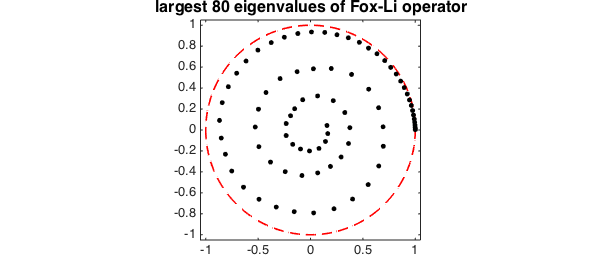
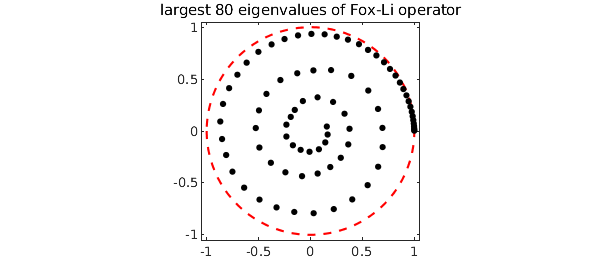
updating FoxLi

diff --git a/examples/integro/img/FoxLi.html b/examples/integro/img/FoxLi.html
@@ -19,13 +19,13 @@ To create the operator in Chebfun, we define the kernel and use the `fred` funct
 K = @(x,s) exp(-1i*F*(x-s).^2 );               % kernel
 L = sqrt(1i*F/pi) * chebop(@(u) fred(K,u));    % Fredholm integral operator</pre>Computing the $80$ eigenvalues of largest complex magnitude requires just a call to `eigs` with the `'lm'` option:
 
-<pre class="mcode-input">tic, lam = eigs(L,80,'lm'); toc</pre><pre class="mcode-output">Elapsed time is 13.501380 seconds.
-</pre>Finally, a beautiful pattern emerges when we plot the results:
+<pre class="mcode-input">tic, lam = eigs(L,80,'lm'); toc</pre><pre class="mcode-output">Elapsed time is 12.891044 seconds.
+</pre>A beautiful pattern emerges when we plot the results:
 
 <pre class="mcode-input">x = chebfun('x');
-clf, plot(exp(1i*pi*x),'--r','linewidth',1.6)
+clf, plot(exp(1i*pi*x),'--r')
 hold on, plot(lam,'k.','markersize',14)
-title('largest 80 eigenvalues of Fox-Li operator','fontsize',16)
+title('largest 80 eigenvalues of Fox-Li operator')
 axis equal, axis(1.05*[-1 1 -1 1]), hold off</pre><img src="img/FoxLi_01.png" class="figure" alt="">
 
 For a remarkable analysis of such patterns, see [1].

diff --git a/examples/integro/FoxLi.html b/examples/integro/FoxLi.html
@@ -73,14 +73,14 @@ L = sqrt(1i*F/pi) * chebop(@(u) fred(K,u));    % Fredholm integral operator</pre
 <p>Computing the $80$ eigenvalues of largest complex magnitude requires just a call to <code>eigs</code> with the <code>'lm'</code> option:</p>
 <pre class="mcode-input">tic, lam = eigs(L,80,'lm'); toc</pre>
 
-<pre class="mcode-output">Elapsed time is 13.501380 seconds.
+<pre class="mcode-output">Elapsed time is 12.891044 seconds.
 </pre>
 
-<p>Finally, a beautiful pattern emerges when we plot the results:</p>
+<p>A beautiful pattern emerges when we plot the results:</p>
 <pre class="mcode-input">x = chebfun('x');
-clf, plot(exp(1i*pi*x),'--r','linewidth',1.6)
+clf, plot(exp(1i*pi*x),'--r')
 hold on, plot(lam,'k.','markersize',14)
-title('largest 80 eigenvalues of Fox-Li operator','fontsize',16)
+title('largest 80 eigenvalues of Fox-Li operator')
 axis equal, axis(1.05*[-1 1 -1 1]), hold off</pre>
 
 <p><img src="img/FoxLi_01.png" class="figure" alt=""></p>

diff --git a/examples/integro/index.html b/examples/integro/index.html
@@ -61,7 +61,7 @@
 <div class="row main noleftpadding"><div class="col-sm-4 noleftpadding">
     <ul class='sidenav'>
         <li><a href="/examples/applics/index.html">Applications<span>6</span></a></li>
-        <li><a href="/examples/approx/index.html">Approximation (1D)<span>43</span></a></li>
+        <li><a href="/examples/approx/index.html">Approximation (1D)<span>45</span></a></li>
         <li><a href="/examples/approx2/index.html">Approximation (2D)<span>16</span></a></li>
         <li><a href="/examples/approx3/index.html">Approximation (3D)<span>10</span></a></li>
         <li><a href="/examples/calc/index.html">Calculus<span>6</span></a></li>

diff --git a/index.html b/index.html
@@ -269,5 +269,5 @@ plot(minx(1),minx(2),'.w')
     <script type="text/javascript" src="/js/config.js"></script>
     <script type="text/javascript" src="/js/jquery.flexslider-min.js"></script>
   </body>
-<!-- Compiled on Monday, 03 May 2021 at 09:25. -->
+<!-- Compiled on Monday, 03 May 2021 at 09:40. -->
 </html>

diff --git a/examples/integro/FoxLi.m b/examples/integro/FoxLi.m
@@ -32,11 +32,11 @@ L = sqrt(1i*F/pi) * chebop(@(u) fred(K,u));    % Fredholm integral operator
 tic, lam = eigs(L,80,'lm'); toc
 
 %%
-% Finally, a beautiful pattern emerges when we plot the results:
+% A beautiful pattern emerges when we plot the results:
 x = chebfun('x');
-clf, plot(exp(1i*pi*x),'--r','linewidth',1.6)
+clf, plot(exp(1i*pi*x),'--r')
 hold on, plot(lam,'k.','markersize',14)
-title('largest 80 eigenvalues of Fox-Li operator','fontsize',16)
+title('largest 80 eigenvalues of Fox-Li operator')
 axis equal, axis(1.05*[-1 1 -1 1]), hold off
 
 %%
